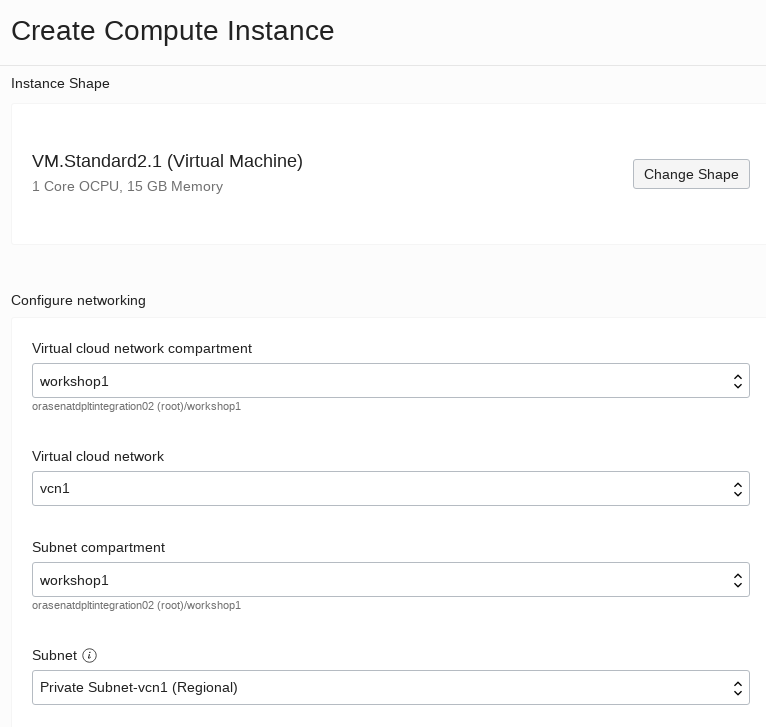
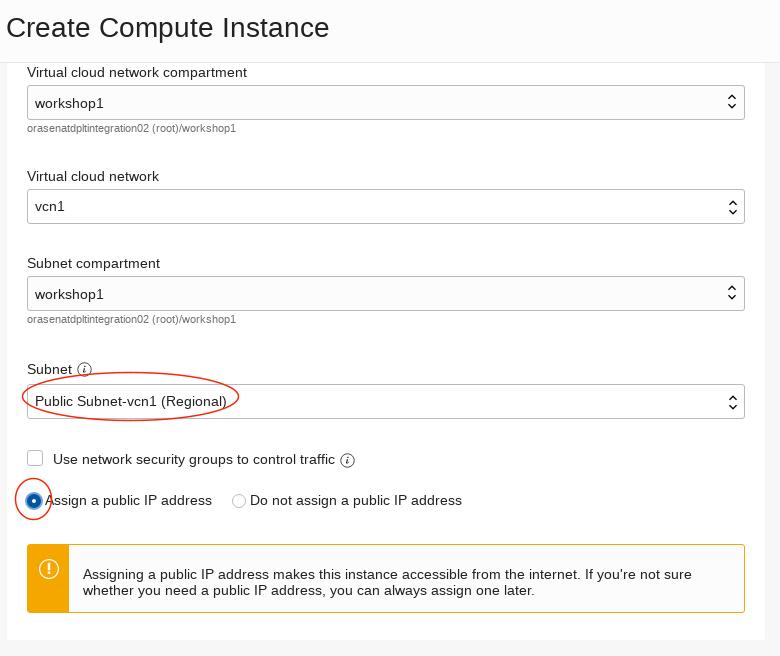
updates

diff --git a/workshops/dbcs-dba-oci/1.md b/workshops/dbcs-dba-oci/1.md
@@ -95,13 +95,16 @@ To log issues and view the Lab Guide source, go to the [github oracle](https://g
 
 - Add the following ingress rules.
 
+	![](images/1/049.png " ")
+
 	![](images/1/048.png " ")
+
 
 ## **Step 3**:  Create a Marketplace Developer Cloud Image
 
-- Create a new ssh key pair.  If you are on Windows follow [these instructions](https://tutorials.ubuntu.com/tutorial/tutorial-ssh-keygen-on-windows#0).  If you are on Linux or a MAC open a terminal window and enter the following.  Name the key **privateKey**.  Do not give it a passphrase.
+- Create a new ssh key pair.  Open a terminal window on your desktop and enter the following.  Name the key **privateKey**.  Do not give it a passphrase.  Depending on whether you are on Linux, MAC, or Windows the output may be different.
 ```
-ssh-keygen  
+<copy>ssh-keygen</copy>
 ```
 
 - After the key is generated rename **privateKey.pub** to **publicKey.pub**.  You should have two files: privateKey and publicKey.pub.
@@ -128,11 +131,11 @@ ssh-keygen
 
 	![](images/1/020.png " ")
 
-- Scroll down noting the defaults.
+- Scroll down noting the defaults.  Be sure to select your public subnet, and to assign a public IP address.
 
 	![](images/1/021.png " ")
 
-- Be sure to increase your book volume size to 150G, select the public ssh key you created above (publicKey.pub) and then select **Create**.  The image will get created in just a minute or two.
+- Be sure to increase your boot volume size to 150G, select the public ssh key you created above (publicKey.pub) and then select **Create**.  The image will get created in just a minute or two.
 
 	![](images/1/022.png " ")
 
@@ -140,7 +143,7 @@ ssh-keygen
 	
 ## **Step 4**:  Create Source and Target Database Cloud Service Instances
 
-You will be creating two databases to support the following labs that migrate data from a source ('on-premise') database to a target database.  The first database will be called workshop1_db.  This is the 'on-premise' source database.  After you initiate the creation of this database we will create a second database called workshop1_db2.  This second database will be used at the target instance.
+You will be creating two databases to support the following labs that migrate data from a source ('on-premise') database to a target database.  The first database will be called workshop1\_db.  This is the 'on-premise' source database.  After you initiate the creation of this database we will create a second database called workshop1\_db2.  This second database will be used at the target instance.
 
 - Navigate to **Bare Metal, VM, and Exadata**.
 

diff --git a/workshops/dbcs-dba-oci/2.md b/workshops/dbcs-dba-oci/2.md
@@ -359,16 +359,16 @@ OK (0 msec)
 -sourcedb source_db_unique_name_value  (note if classic source - sourcesid is the parameter)
 -sourcenode source_database_server_name 
 -srcauth zdmauth 
--srcarg1 user:source_database_server_login_user_name 
--srcarg2 identity_file:ZDM_installed_user_private_key_file_location 
+-srcarg1 user:source_database_server_login_user_name (eg: opc)
+-srcarg2 identity_file:ZDM_installed_user_private_key_file_location (eg: /tmp)
 -srcarg3 sudo_location:/usr/bin/sudo 
--targetnode target_database_server_name 
--targethome target_database_ORACLE_HOME_value 
--backupuser Object_store_login_user_name 
--rsp response_file_location 
+-targetnode target_database_server_name (eg: workshop1-scan)
+-targethome target_database_ORACLE_HOME_value (eg: /u01/app/oracle/product/19.0.0.0/dbhome_1)
+-backupuser Object_store_login_user_name (eg: oracleidentitycloudservice/derrick.cameron@oracle.com)
+-rsp response_file_location (eg: /u01/app/zdmhome/rhp/zdm/template/zdm_template.rsp)
 -tgtauth zdmauth 
--tgtarg1 user:target_database_server_login_user_name 
--tgtarg2 identity_file:ZDM_installed_user_private_key_file_location 
+-tgtarg1 user:target_database_server_login_user_name (eg: opc)
+-tgtarg2 identity_file:ZDM_installed_user_private_key_file_location (eg: /tmp)
 -tgtarg3 sudo_location:/usr/bin/sudo 
 -eval -- this last parm indicates test but don't migrate
 ```
@@ -380,9 +380,11 @@ OK (0 msec)
 Enter source database orcl_phx273 SYS password:
 Enter user "oracleidentitycloudservice/derrick.cameron@oracle.com" password:
 Operation "zdmcli migrate database" scheduled with the job ID "1".
+```
 
--- review progress
-zdmhome/bin/zdmcli query job -jobid 1
+- Review progress.  Get the job ID from the output above.
+```
+<copy>zdmhome/bin/zdmcli query job -jobid 1</copy>
 
 workshop1-4199.sub01092328510.vcn1.oraclevcn.com: Audit ID: 209
 Job ID: 36
